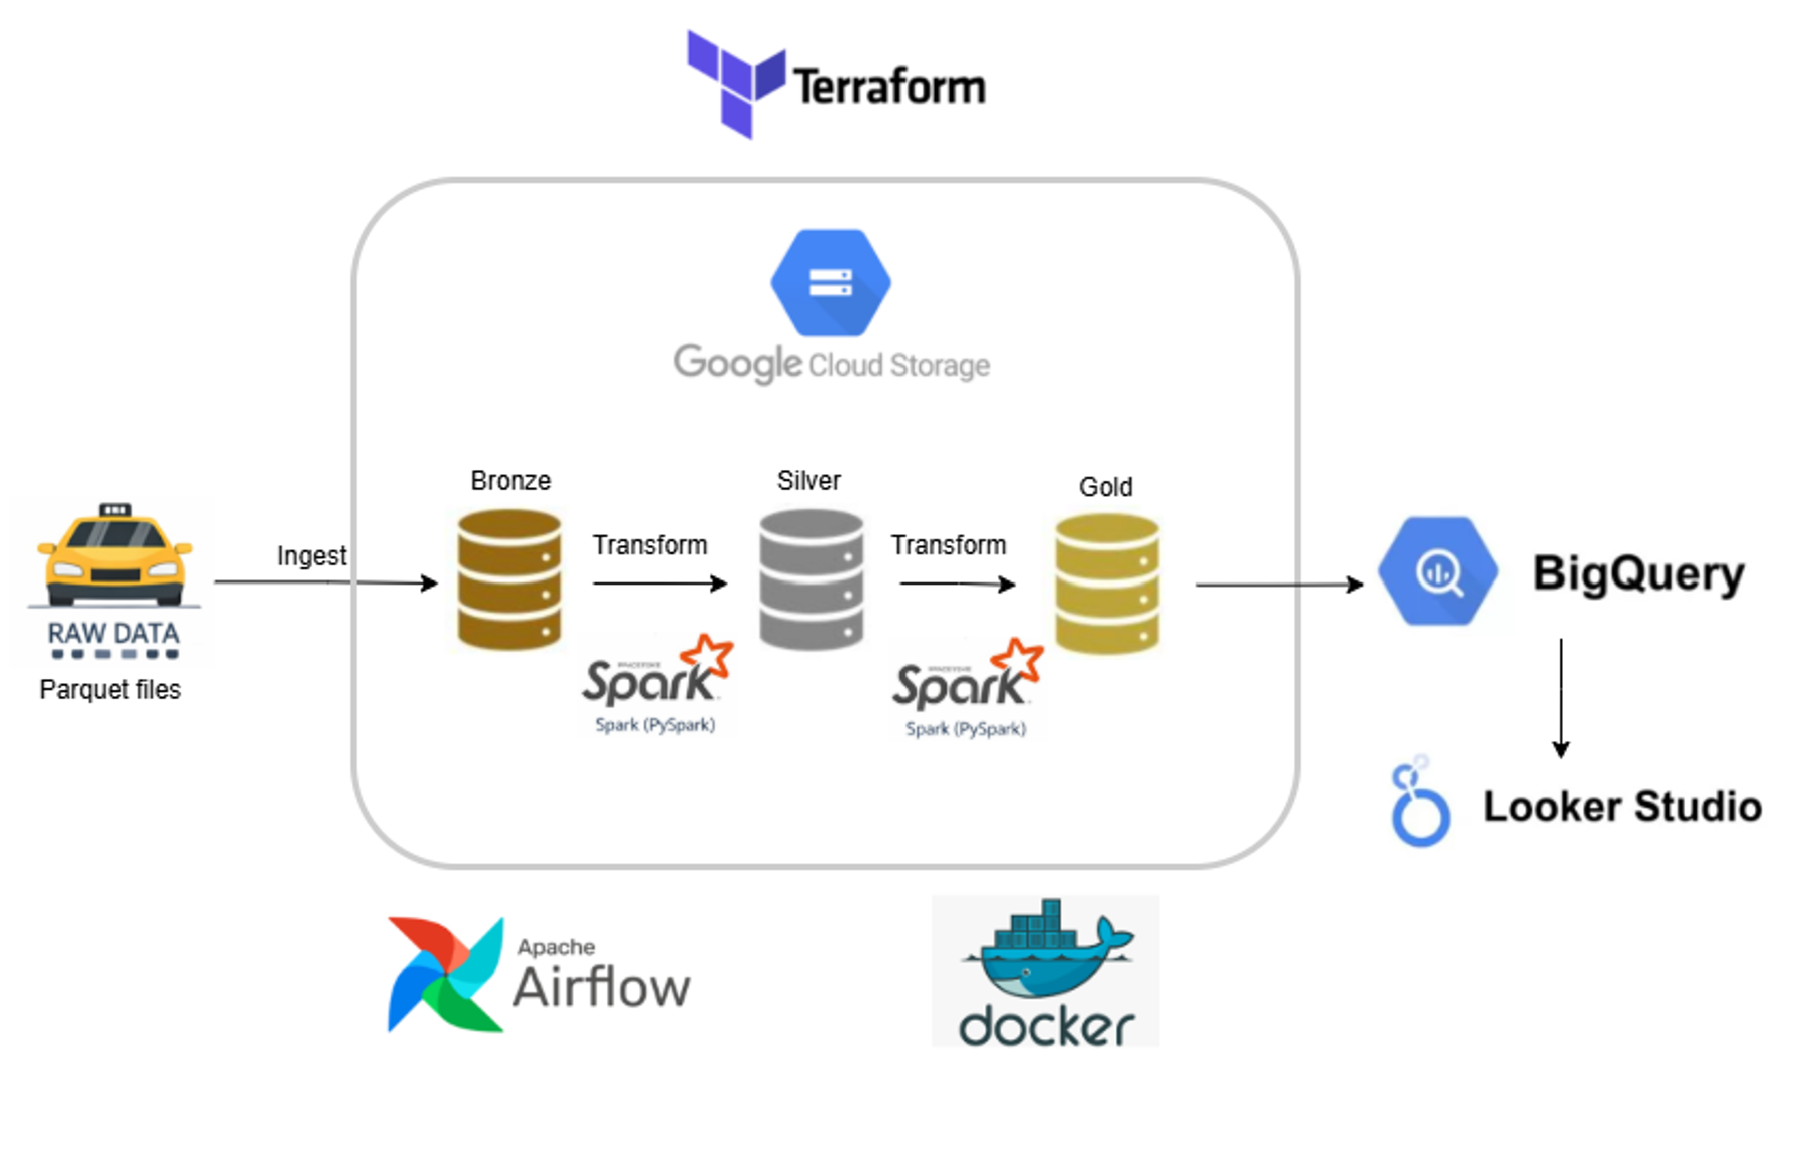
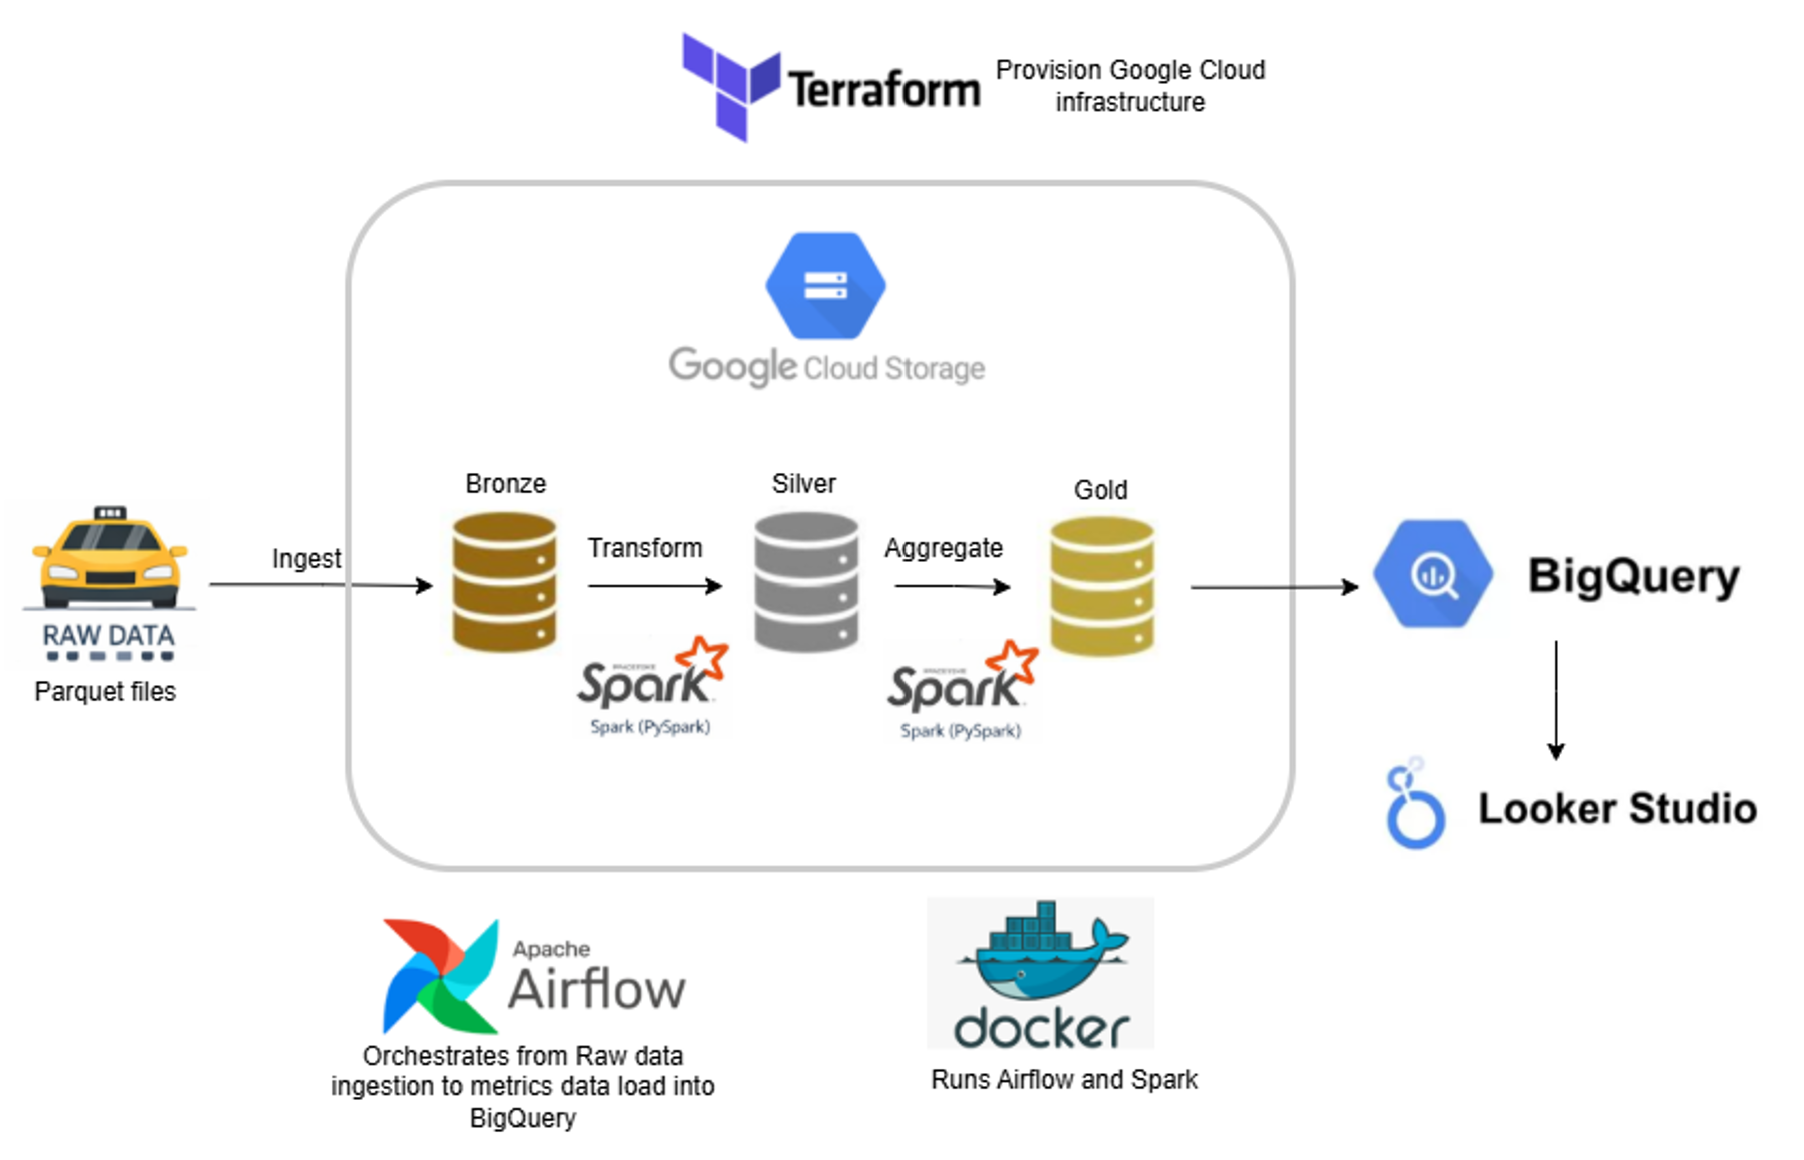
UPDATE  images and readme

diff --git a/README.md b/README.md
@@ -83,6 +83,18 @@ Pipeline flow:
 
 ## 🚀 How to Run
 
+Create Google Storage Bucket and BigQuery dataset using Terraform
+ - Create a service account
+ - Generate a new key (json file)
+ - Update the main.tf and variable.tf files under terraform folder to use your google credential
+
+```
+terraform init
+terraform plan
+terraform apply
+```
+In terminal, go to taxi-airflow folder and run below docker commands.
+
 ```bash
 docker compose up airflow-init
 docker compose up
@@ -98,6 +110,8 @@ Then open Airflow UI:
 Trigger DAG:
 
  - taxi_end_to_end_pipeline
+ - Once complete, you will have daily_trip_metrics table in your BigQuery dataset
+ - You can now create dashboard using Looker Studio
 
 📅 Automation Logic
 
